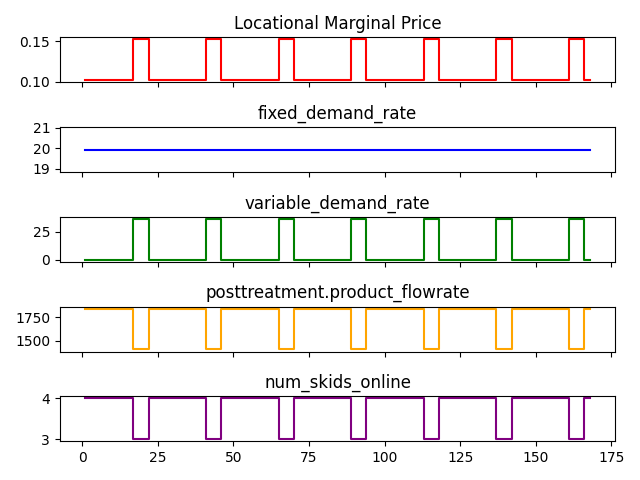
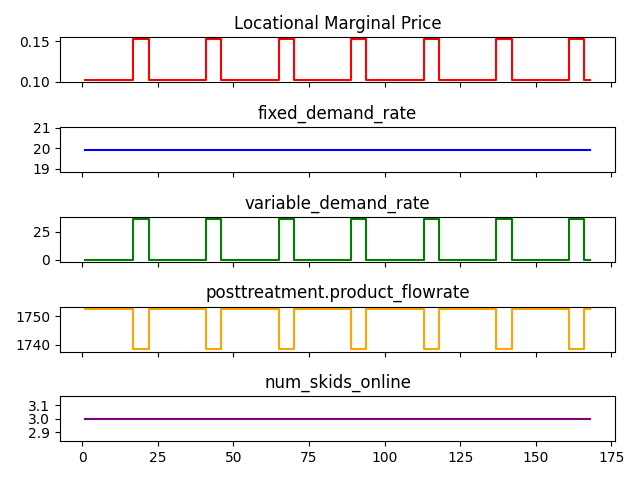
stronger penalty for shutdowns

diff --git a/tutorials/flex_ro/ro_const_SEC.py b/tutorials/flex_ro/ro_const_SEC.py
@@ -398,7 +398,7 @@ if __name__ == "__main__":
         utils.wrd_fix_recovery(m, recovery=m.params.wrd_ro.nominal_recovery)
 
     m.num_shutdowns = pyo.Expression(
-        expr=10
+        expr=100
         * sum(
             sum(m.period[:, :].reverse_osmosis.ro_skid[i].shutdown)
             for i in range(1, m.params.wrd_ro.num_ro_skids + 1)
